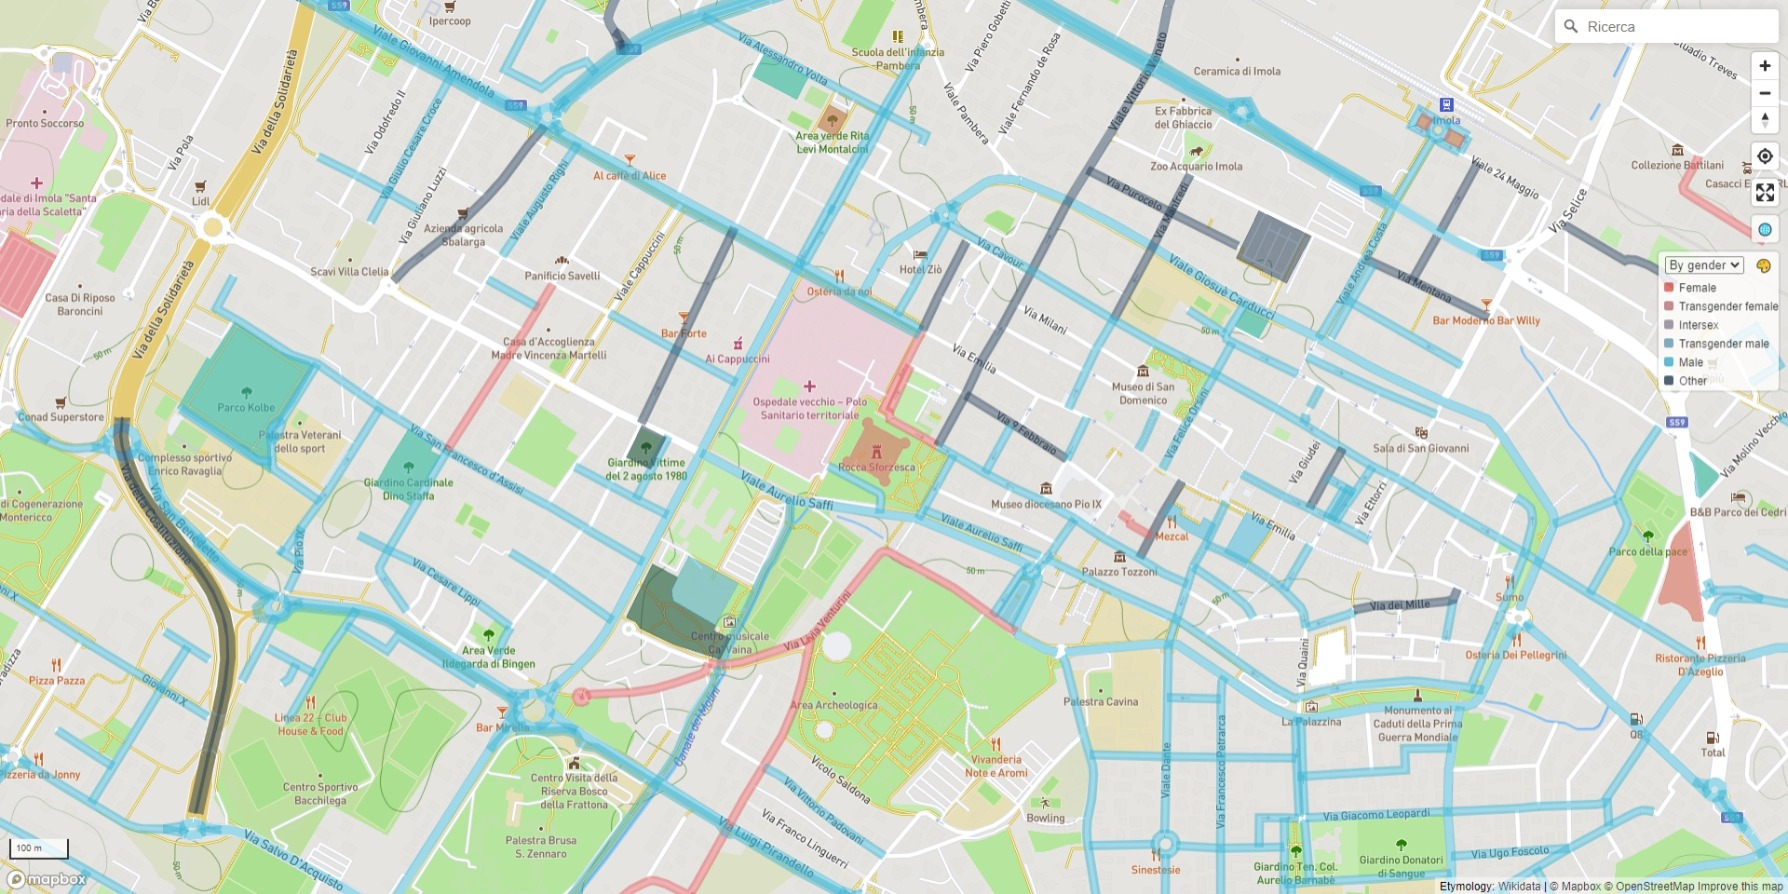
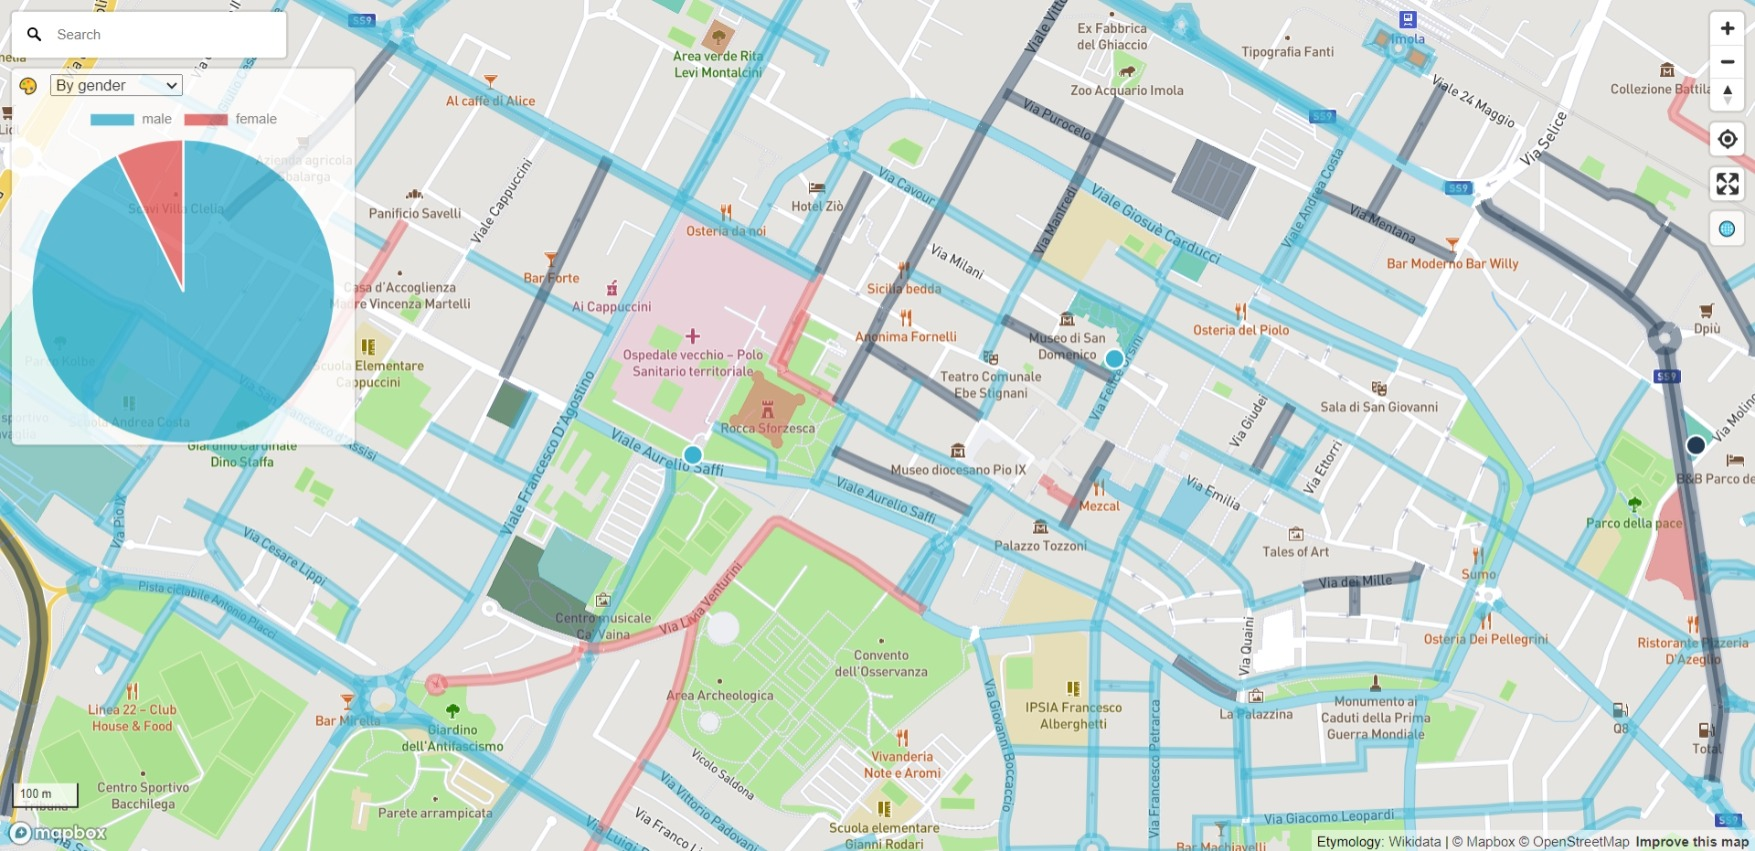
Completed charts

diff --git a/web/index.js b/web/index.js
@@ -305,18 +305,16 @@ class EtymologyColorControl {
     dropDownClickHandler(event) {
         //const colorScheme = event.target.value;
         const colorScheme = colorSchemes[event.target.value];
-        let color, legend;
+        let color;
 
         if (colorScheme) {
             color = colorScheme.color;
-            legend = colorScheme.colorMap ? colorSchemeToLegend(colorScheme) : null;
         } else {
             console.error("Invalid selected color scheme", event.target.value);
             if (typeof Sentry != 'undefined') Sentry.captureMessage("Invalid selected color scheme");
             color = '#3bb2d0';
-            legend = null;
         }
-        console.info("EtymologyColorControl dropDown click", { event, colorScheme, color, legend });
+        console.info("EtymologyColorControl dropDown click", { event, colorScheme, color });
 
         [
             ["wikidata_layer_point", "circle-color"],
@@ -330,10 +328,6 @@ class EtymologyColorControl {
             }
         });
 
-        if (!legend) {
-            this._ctrlDropDown.className = 'hiddenElement';
-        }
-
         this.updateChart(event);
 
         //updateDataSource(event);
@@ -341,7 +335,7 @@ class EtymologyColorControl {
 
     updateChart(event) {
         const colorScheme = colorSchemes[this._ctrlDropDown.value];
-        console.info("updateChart", { event, colorScheme, chart: this._chart });
+        console.info("updateChart", { event, colorScheme });
 
         let data = {
             labels: [],
@@ -353,8 +347,8 @@ class EtymologyColorControl {
 
         if (colorScheme && colorScheme.urlCode) {
             console.info("updateChart main: URL code", { colorScheme });
-            //if (this._chartXHR)
-            //    this._chartXHR.abort();
+            if (this._chartXHR)
+                this._chartXHR.abort();
             const bounds = map.getBounds(),
                 southWest = bounds.getSouthWest(),
                 minLat = Math.round(southWest.lat * 1000) / 1000,
@@ -399,6 +393,9 @@ class EtymologyColorControl {
         } else if (colorScheme && colorScheme.colorMap) {
             console.info("updateChart fallback: legend", { colorScheme });
             this.createChartFromLegend(colorSchemeToLegend(colorScheme));
+        } else {
+            this._ctrlDropDown.className = 'hiddenElement';
+            this.removeChart();
         }
     }
 
@@ -419,24 +416,47 @@ class EtymologyColorControl {
     }
 
     setChartData(data) {
-        console.info("setChartData", { container: this._container, chart: this._chart, data });
-        if (this._chart) {
-            try {
-                this._container.removeChild(this._chart);
-            } catch (error) {
-                console.warn("Error removing old chart", { error, container: this._container, chart: this._chart });
-            }
-        }
+        console.info("setChartData", {
+            container: this._container,
+            chartElement: this._chartElement,
+            chartObject: this._chartObject,
+            data
+        });
+        if (this._chartObject) {
+            // https://www.chartjs.org/docs/latest/developers/updates.html
+            this._chartObject.data.datasets[0].backgroundColor = data.datasets[0].backgroundColor;
+            this._chartObject.data.labels = data.labels;
+            this._chartObject.data.datasets[0].data = data.datasets[0].data;
 
-        //this._legend.className = 'legend';
-        this._chart = document.createElement('canvas');
-        this._chart.className = 'chart';
-        this._container.appendChild(this._chart);
-        const ctx = this._chart.getContext('2d'),
-            chartObject = new Chart(ctx, {
+            this._chartObject.update();
+        } else {
+            //this._legend.className = 'legend';
+            this._chartElement = document.createElement('canvas');
+            this._chartElement.className = 'chart';
+            this._container.appendChild(this._chartElement);
+            const ctx = this._chartElement.getContext('2d');
+            this._chartObject = new Chart(ctx, {
                 type: "pie",
                 data: data,
+                options: {
+                    animation: {
+                        animateScale: true,
+                    }
+                }
             });
+        }
+    }
+
+    removeChart() {
+        if (this._chartElement) {
+            try {
+                this._container.removeChild(this._chartElement);
+                this._chartElement = undefined;
+                this._chartObject = undefined;
+            } catch (error) {
+                console.warn("Error removing old chart", { error, container: this._container, chart: this._chartElement });
+            }
+        }
     }
 }
 

diff --git a/web/index.php b/web/index.php
@@ -58,7 +58,7 @@ if (!$conf->has("mapbox-gl-token")) {
     <link rel="preload" as="style" type="text/css" href="./node_modules/mapbox-gl/dist/mapbox-gl.css" />
     <link rel="preload" as="style" type="text/css" href="./node_modules/mapbox-gl-geocoder/dist/mapbox-gl-geocoder.css" />
     <link rel="preload" as="style" type="text/css" href="./style.css" />
-    <link rel="preload" as="fetch" type="application/json" href="./global-map.geojson" crossorigin>
+    <!--<link rel="preload" as="fetch" type="application/json" href="./global-map.geojson" crossorigin="anonymous" />-->
 
     <meta charset="UTF-8">
     <meta http-equiv="X-UA-Compatible" content="IE=edge">
